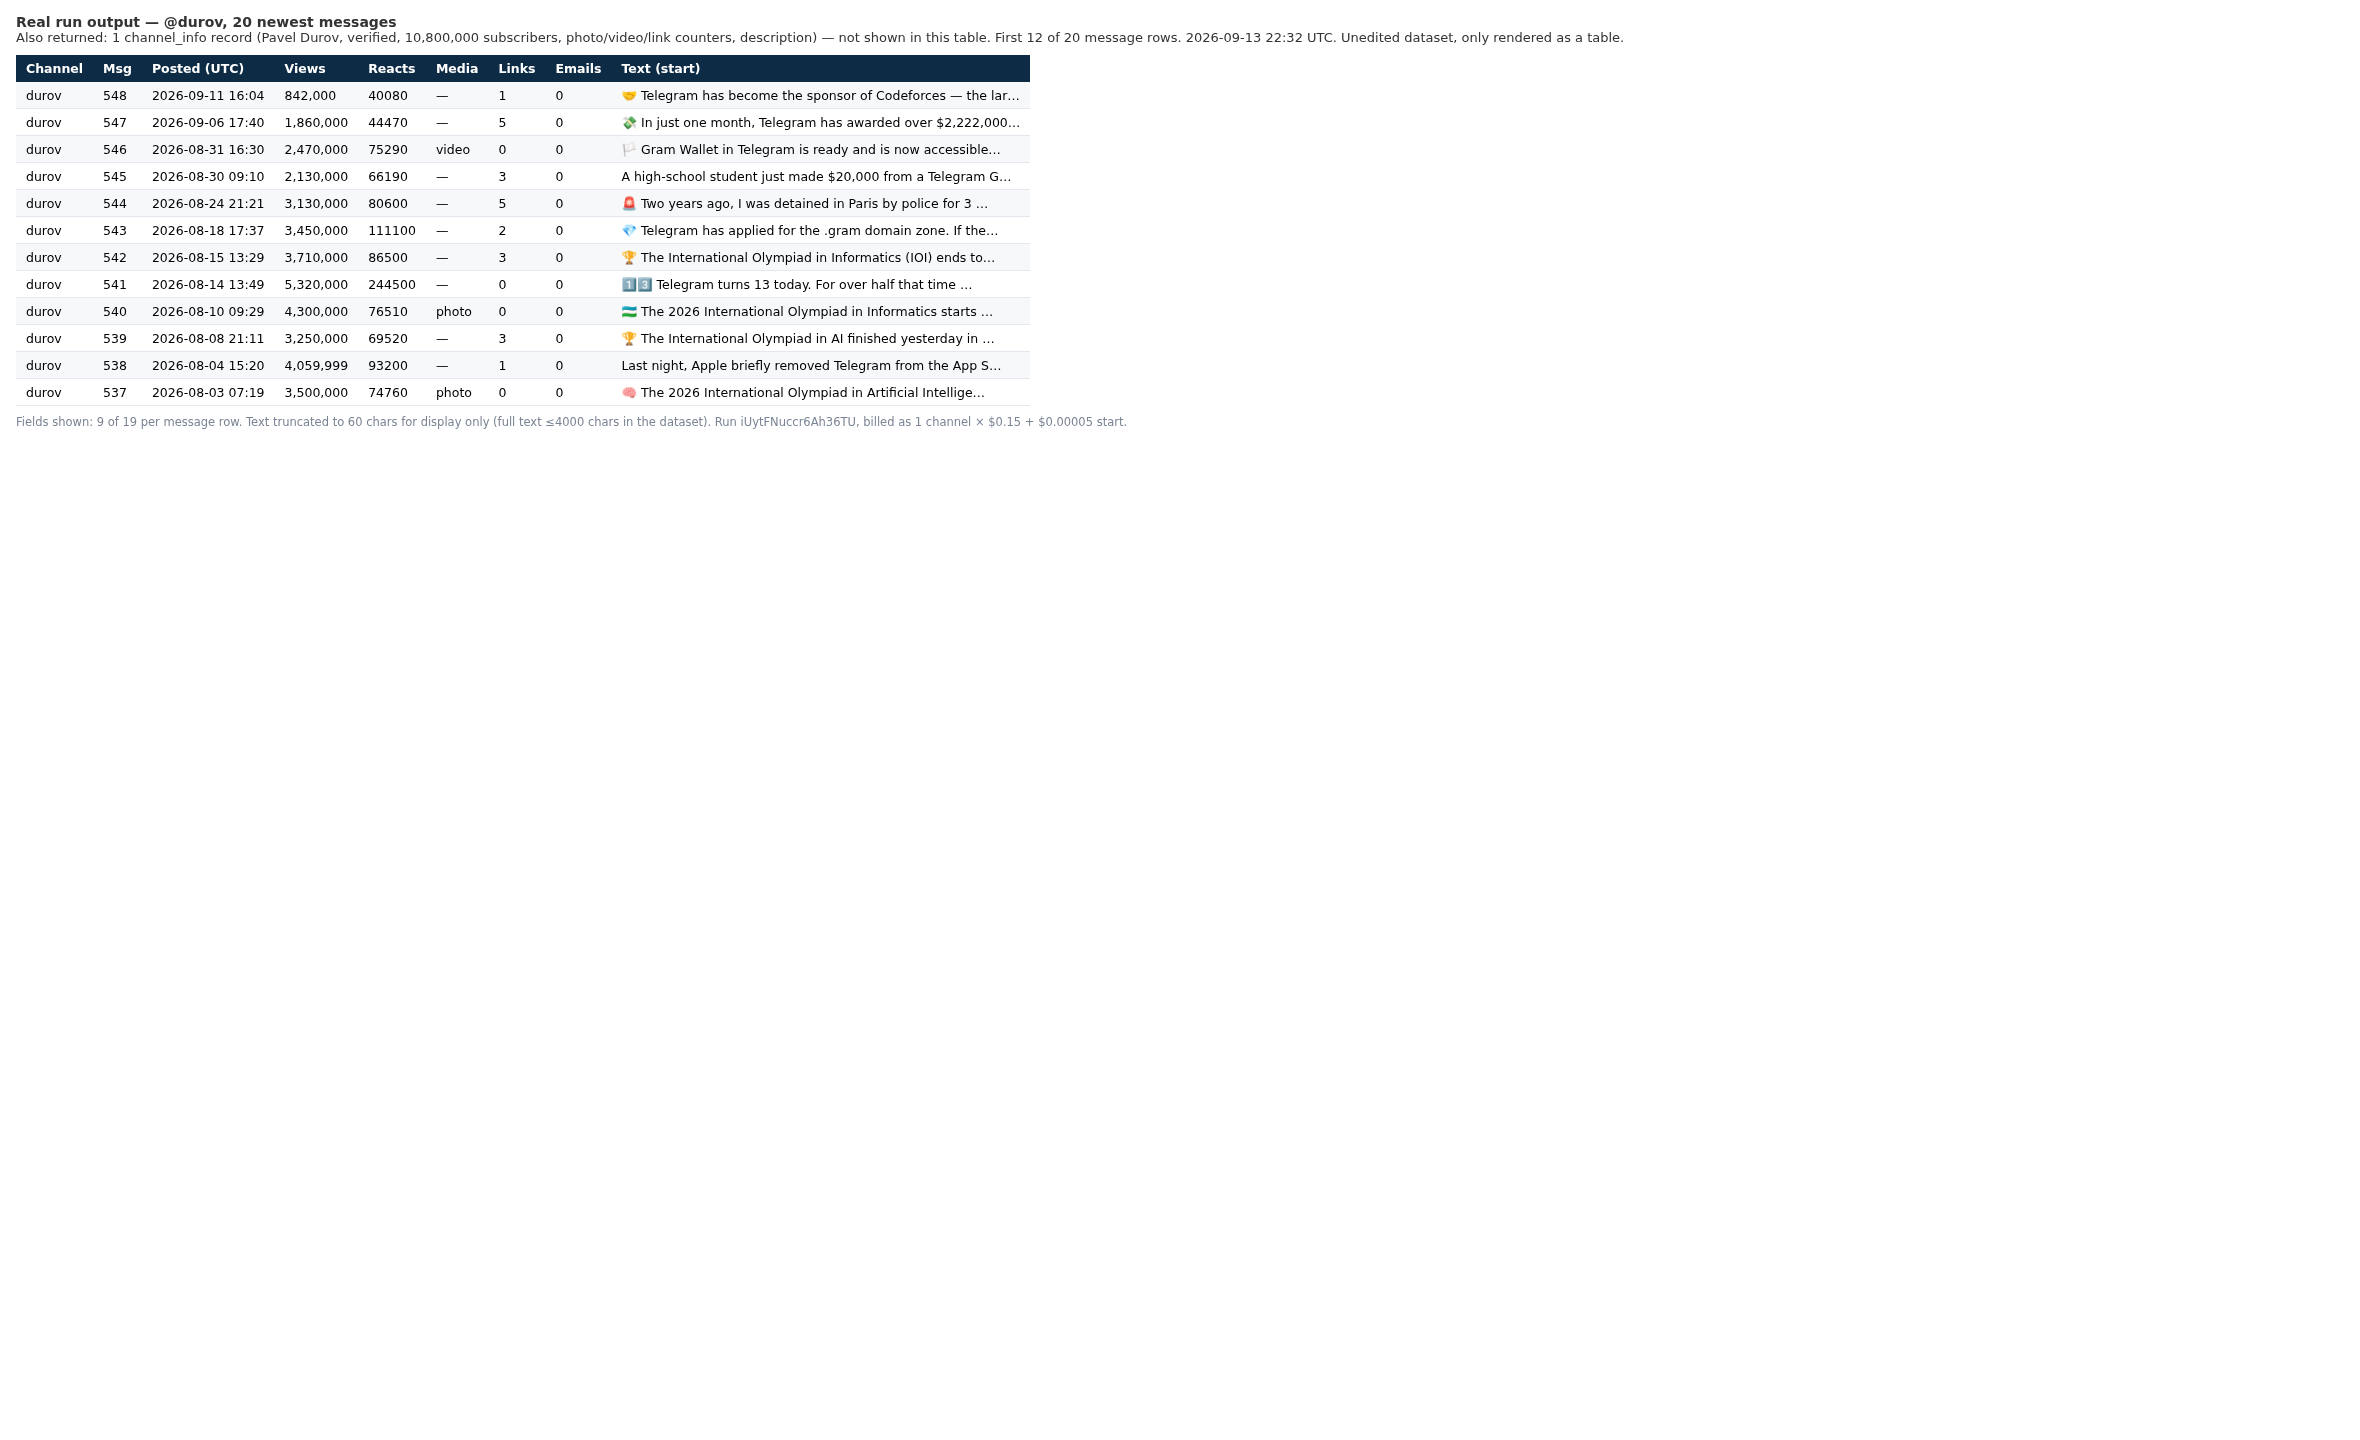
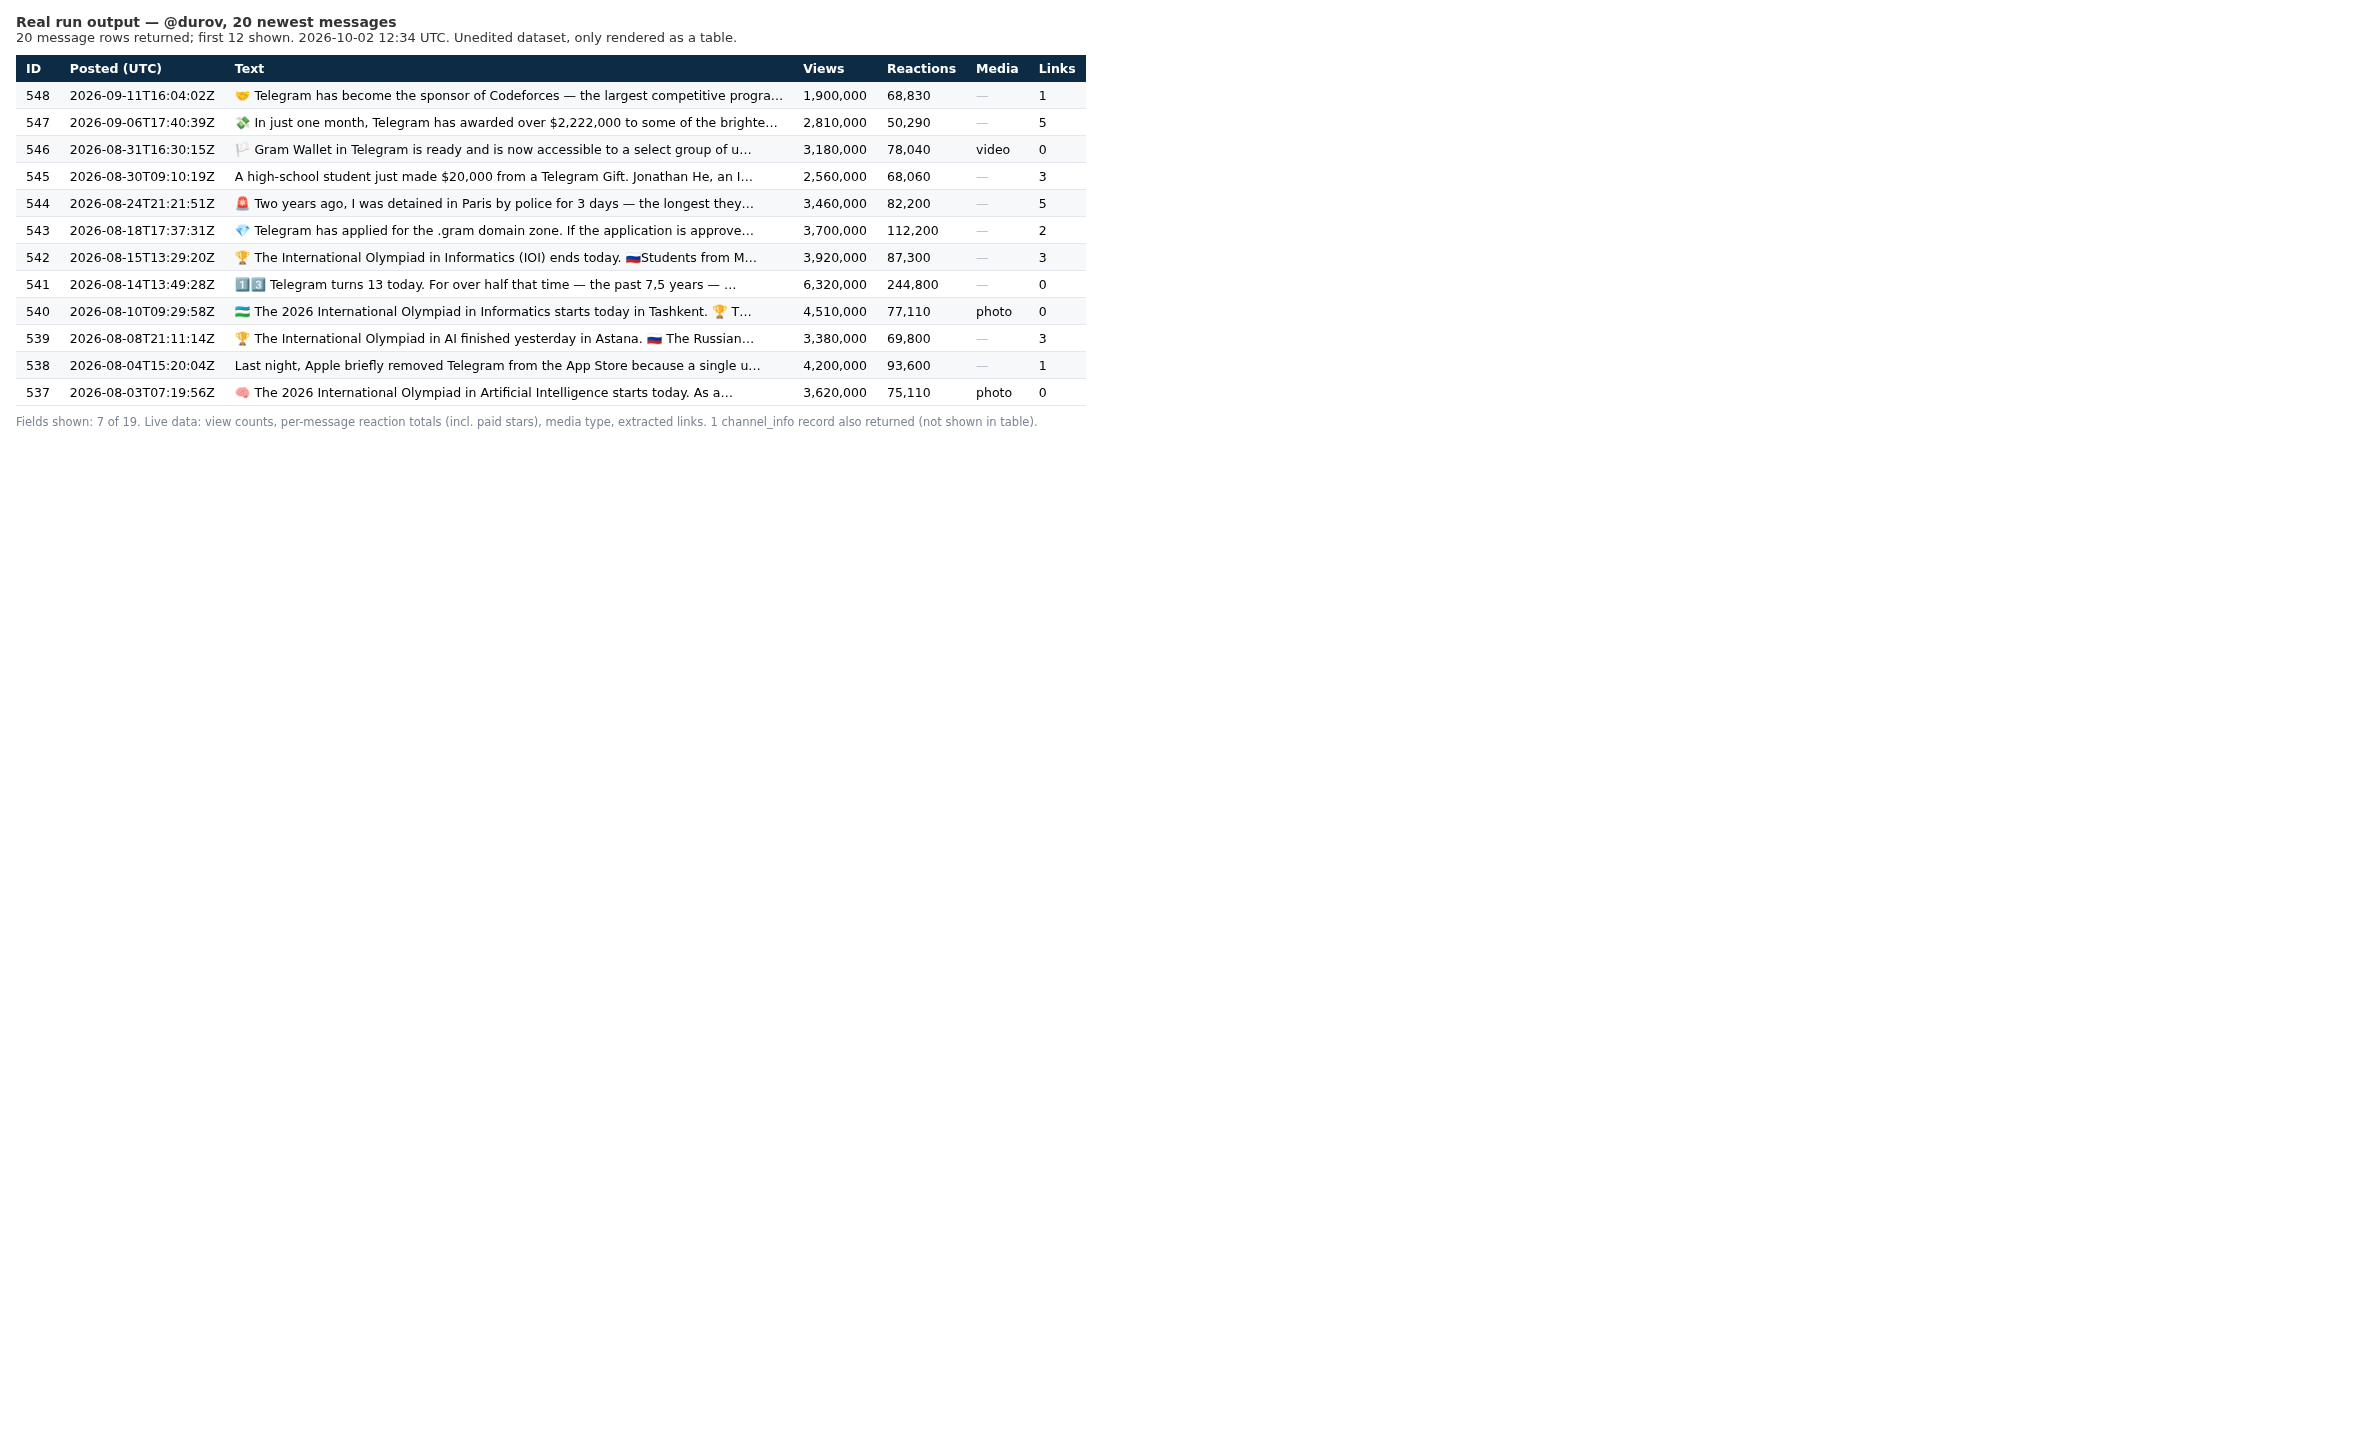
assets: tcs fresh sample (run EGizVdpfxUB8ExbZb, 2026-10-02, 20 msgs durov)

Changed region(s): [[0.0, 0.0, 0.464, 0.3125], [0.4331, 0.0312, 0.464, 0.0625], [0.2784, 0.0, 0.3093, 0.0312]]

diff --git a/assets/tcs/output-sample.html b/assets/tcs/output-sample.html
@@ -7,10 +7,7 @@ td{padding:5.5px 10px;border-bottom:1px solid #e4e8ee;white-space:nowrap}
 tr:nth-child(even) td{background:#f6f8fa}
 .n{color:#b6bdc7} .foot{font-size:11.5px;color:#7a8494;margin-top:9px}
 </style></head><body>
-<div class="cap"><b>Real run output — @durov, 20 newest messages</b><br>
-Also returned: 1 channel_info record (Pavel Durov, verified, 10,800,000 subscribers, photo/video/link counters, description) — not shown in this table. First 12 of 20 message rows. 2026-09-13 22:32 UTC. Unedited dataset, only rendered as a table.</div>
-<table><tr><th>Channel</th><th>Msg</th><th>Posted (UTC)</th><th>Views</th><th>Reacts</th><th>Media</th><th>Links</th><th>Emails</th><th>Text (start)</th></tr>
-<tr><td>durov</td><td>548</td><td>2026-09-11 16:04</td><td>842,000</td><td>40080</td><td>—</td><td>1</td><td>0</td><td>🤝 Telegram has become the sponsor of Codeforces — the lar…</td></tr><tr><td>durov</td><td>547</td><td>2026-09-06 17:40</td><td>1,860,000</td><td>44470</td><td>—</td><td>5</td><td>0</td><td>💸 In just one month, Telegram has awarded over $2,222,000…</td></tr><tr><td>durov</td><td>546</td><td>2026-08-31 16:30</td><td>2,470,000</td><td>75290</td><td>video</td><td>0</td><td>0</td><td>🏳 Gram Wallet in Telegram is ready and is now accessible…</td></tr><tr><td>durov</td><td>545</td><td>2026-08-30 09:10</td><td>2,130,000</td><td>66190</td><td>—</td><td>3</td><td>0</td><td>A high-school student just made $20,000 from a Telegram G…</td></tr><tr><td>durov</td><td>544</td><td>2026-08-24 21:21</td><td>3,130,000</td><td>80600</td><td>—</td><td>5</td><td>0</td><td>🚨 Two years ago, I was detained in Paris by police for 3 …</td></tr><tr><td>durov</td><td>543</td><td>2026-08-18 17:37</td><td>3,450,000</td><td>111100</td><td>—</td><td>2</td><td>0</td><td>💎 Telegram has applied for the .gram domain zone.  If the…</td></tr><tr><td>durov</td><td>542</td><td>2026-08-15 13:29</td><td>3,710,000</td><td>86500</td><td>—</td><td>3</td><td>0</td><td>🏆 The International Olympiad in Informatics (IOI) ends to…</td></tr><tr><td>durov</td><td>541</td><td>2026-08-14 13:49</td><td>5,320,000</td><td>244500</td><td>—</td><td>0</td><td>0</td><td>1⃣3⃣ Telegram turns 13 today.  For over half that time …</td></tr><tr><td>durov</td><td>540</td><td>2026-08-10 09:29</td><td>4,300,000</td><td>76510</td><td>photo</td><td>0</td><td>0</td><td>🇺🇿 The 2026 International Olympiad in Informatics starts …</td></tr><tr><td>durov</td><td>539</td><td>2026-08-08 21:11</td><td>3,250,000</td><td>69520</td><td>—</td><td>3</td><td>0</td><td>🏆 The International Olympiad in AI finished yesterday in …</td></tr><tr><td>durov</td><td>538</td><td>2026-08-04 15:20</td><td>4,059,999</td><td>93200</td><td>—</td><td>1</td><td>0</td><td>Last night, Apple briefly removed Telegram from the App S…</td></tr><tr><td>durov</td><td>537</td><td>2026-08-03 07:19</td><td>3,500,000</td><td>74760</td><td>photo</td><td>0</td><td>0</td><td>🧠 The 2026 International Olympiad in Artificial Intellige…</td></tr>
-</table>
-<div class="foot">Fields shown: 9 of 19 per message row. Text truncated to 60 chars for display only (full text ≤4000 chars in the dataset). Run iUytFNuccr6Ah36TU, billed as 1 channel × $0.15 + $0.00005 start.</div>
+<div class="cap"><b>Real run output — @durov, 20 newest messages</b><br>20 message rows returned; first 12 shown. 2026-10-02 12:34 UTC. Unedited dataset, only rendered as a table.</div>
+<table><tr><th>ID</th><th>Posted (UTC)</th><th>Text</th><th>Views</th><th>Reactions</th><th>Media</th><th>Links</th></tr><tr><td>548</td><td>2026-09-11T16:04:02Z</td><td>🤝 Telegram has become the sponsor of Codeforces — the largest competitive progra…</td><td>1,900,000</td><td>68,830</td><td><span class="n">—</span></td><td>1</td></tr><tr><td>547</td><td>2026-09-06T17:40:39Z</td><td>💸 In just one month, Telegram has awarded over $2,222,000 to some of the brighte…</td><td>2,810,000</td><td>50,290</td><td><span class="n">—</span></td><td>5</td></tr><tr><td>546</td><td>2026-08-31T16:30:15Z</td><td>🏳 Gram Wallet in Telegram is ready and is now accessible to a select group of u…</td><td>3,180,000</td><td>78,040</td><td>video</td><td>0</td></tr><tr><td>545</td><td>2026-08-30T09:10:19Z</td><td>A high-school student just made $20,000 from a Telegram Gift.  Jonathan He, an I…</td><td>2,560,000</td><td>68,060</td><td><span class="n">—</span></td><td>3</td></tr><tr><td>544</td><td>2026-08-24T21:21:51Z</td><td>🚨 Two years ago, I was detained in Paris by police for 3 days — the longest they…</td><td>3,460,000</td><td>82,200</td><td><span class="n">—</span></td><td>5</td></tr><tr><td>543</td><td>2026-08-18T17:37:31Z</td><td>💎 Telegram has applied for the .gram domain zone.  If the application is approve…</td><td>3,700,000</td><td>112,200</td><td><span class="n">—</span></td><td>2</td></tr><tr><td>542</td><td>2026-08-15T13:29:20Z</td><td>🏆 The International Olympiad in Informatics (IOI) ends today.  🇷🇺Students from M…</td><td>3,920,000</td><td>87,300</td><td><span class="n">—</span></td><td>3</td></tr><tr><td>541</td><td>2026-08-14T13:49:28Z</td><td>1⃣3⃣ Telegram turns 13 today.  For over half that time — the past 7,5 years — …</td><td>6,320,000</td><td>244,800</td><td><span class="n">—</span></td><td>0</td></tr><tr><td>540</td><td>2026-08-10T09:29:58Z</td><td>🇺🇿 The 2026 International Olympiad in Informatics starts today in Tashkent.  🏆 T…</td><td>4,510,000</td><td>77,110</td><td>photo</td><td>0</td></tr><tr><td>539</td><td>2026-08-08T21:11:14Z</td><td>🏆 The International Olympiad in AI finished yesterday in Astana.  🇷🇺 The Russian…</td><td>3,380,000</td><td>69,800</td><td><span class="n">—</span></td><td>3</td></tr><tr><td>538</td><td>2026-08-04T15:20:04Z</td><td>Last night, Apple briefly removed Telegram from the App Store because a single u…</td><td>4,200,000</td><td>93,600</td><td><span class="n">—</span></td><td>1</td></tr><tr><td>537</td><td>2026-08-03T07:19:56Z</td><td>🧠 The 2026 International Olympiad in Artificial Intelligence starts today.  As a…</td><td>3,620,000</td><td>75,110</td><td>photo</td><td>0</td></tr></table>
+<div class="foot">Fields shown: 7 of 19. Live data: view counts, per-message reaction totals (incl. paid stars), media type, extracted links. 1 channel_info record also returned (not shown in table).</div>
 </body></html>
